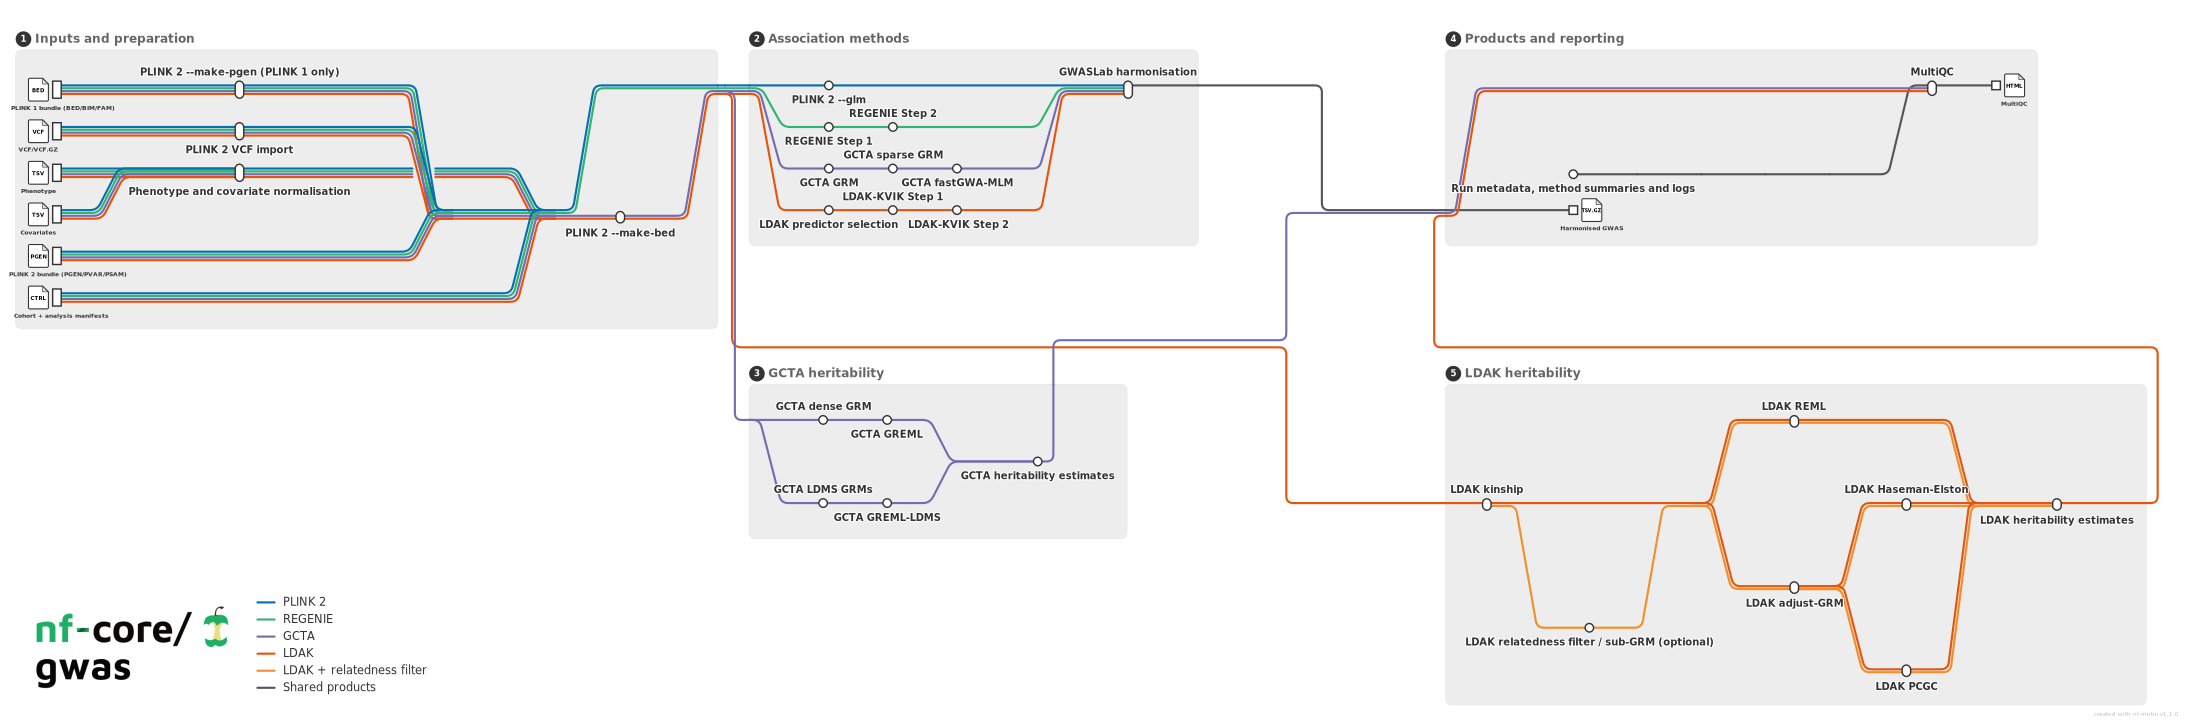
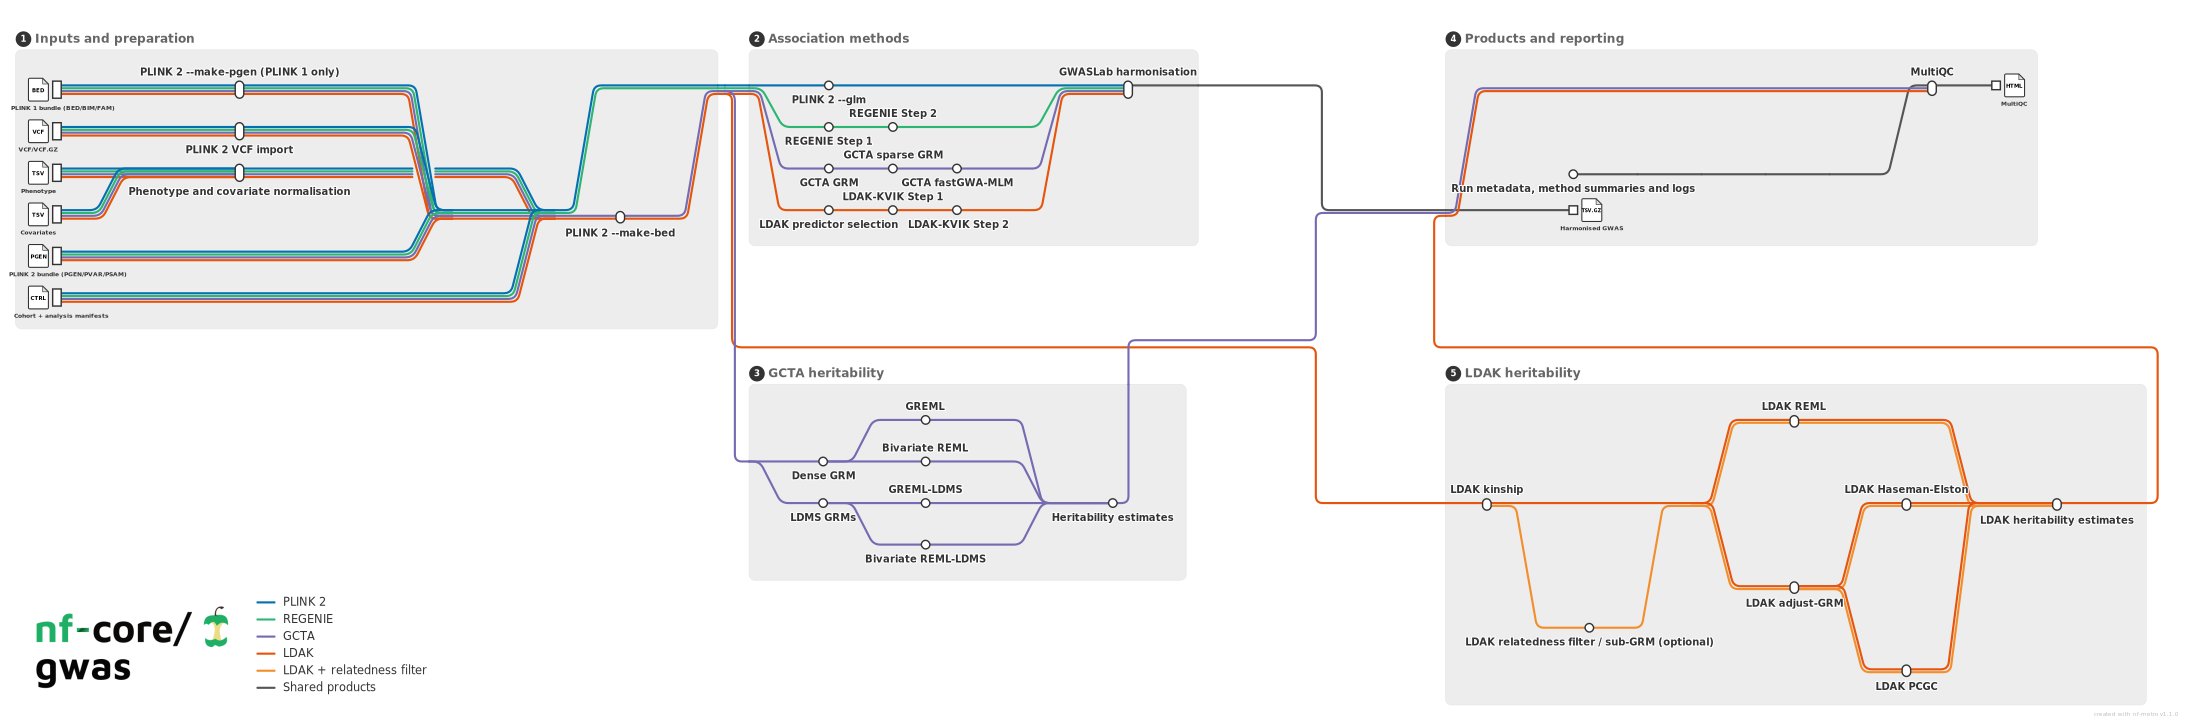
docs: describe bivariate LDMS analysis

Changed region(s): [[0.34, 0.5485, 0.5255, 0.7922], [0.5873, 0.4571, 0.6182, 0.4875], [0.4945, 0.4571, 0.5255, 0.4875]]

diff --git a/docs/usage.md b/docs/usage.md
@@ -66,7 +66,7 @@ At least one unary method selector must be populated unless the analysis is refe
 
 ### Relationship manifest fields
 
-The optional relationship manifest has exactly eight columns. The first release implements only the primary dense `gcta_bivariate_reml` route; the summary-statistics endpoint columns are reserved for later methods and must remain blank for this route.
+The optional relationship manifest has exactly eight columns. The implemented individual-level pair routes are `gcta_bivariate_reml` and `gcta_bivariate_reml_ldms`; the summary-statistics endpoint columns remain reserved for later methods and must be blank for these routes.
 
 | Column                       | Required | Description                                                                                                                                          |
 | ---------------------------- | -------- | ---------------------------------------------------------------------------------------------------------------------------------------------------- |
@@ -75,7 +75,7 @@ The optional relationship manifest has exactly eight columns. The first release 
 | `right_analysis_id`          | GCTA     | Analysis ID for native trait 2.                                                                                                                       |
 | `left_summary_statistics_id` | No       | Reserved summary-statistics endpoint; leave blank in this release.                                                                                   |
 | `right_summary_statistics_id` | No       | Reserved summary-statistics endpoint; leave blank in this release.                                                                                   |
-| `relationship_methods`       | Yes      | Comma-delimited pairwise selector; currently `gcta_bivariate_reml`.                                                                                   |
+| `relationship_methods`       | Yes      | Comma-delimited pairwise selector: `gcta_bivariate_reml`, `gcta_bivariate_reml_ldms` or both.                                                          |
 | `pair_quant_covariates`      | No       | Relationship-owned headered quantitative covariates beginning with `FID` and `IID`.                                                                  |
 | `pair_cat_covariates`        | No       | Relationship-owned headered categorical covariates beginning with `FID` and `IID`.                                                                   |
 
@@ -85,6 +85,7 @@ The pair phenotype is a deterministic full union of the two normalized endpoint 
 
 ```text
 gcta_bivariate_reml--<relationship_id>
+gcta_bivariate_reml_ldms--<relationship_id>
 ```
 
 ### Runnable examples
@@ -112,7 +113,7 @@ nextflow run nf-core/gwas \
     --outdir results
 ```
 
-The [relationship manifest example](../assets/examples/relational/relationship_manifest.csv) binds the heterogeneous quantitative and binary analyses. For the deliberately small fixture, use the [namespaced method-options example](../assets/examples/relational/method_options_heterogeneous_bivariate.json), which retains the unary settings, raises GCTA's native REML iteration allowance and deliberately drops the residual-covariance component for this compact test request. These are explicit example-specific native choices, not defaults of the pair route:
+The [relationship manifest example](../assets/examples/relational/relationship_manifest.csv) binds the heterogeneous quantitative and binary analyses and selects both GCTA pair estimators. For the deliberately small fixture, use the [namespaced method-options example](../assets/examples/relational/method_options_heterogeneous_bivariate.json), which retains the unary settings, uses one populated LDMS stratum, raises GCTA's native REML iteration allowance and deliberately drops the residual-covariance component. These are explicit example-specific choices, not pair-route defaults:
 
 ```bash
 nextflow run nf-core/gwas \
@@ -129,13 +130,19 @@ nextflow run nf-core/gwas \
 
 `--method_options` is optional. The established form keeps its JSON root keyed by `analysis_id`; each value may contain `gcta`, `ldak` and/or `regenie`. It remains supported unchanged. A namespaced document places those same entries under `analyses` and pair-specific settings under `pair_requests`. `unary_requests` is reserved for later summary-statistics requests and must remain empty in this release. Unlisted analyses and pair requests receive their defaults. Unknown identifiers, families or options, invalid values, missing resources, and options whose consuming method is not selected are rejected before task submission.
 
-The first pair route exposes one advanced option, `native_args`, as an array of individual non-file GCTA tokens on the deterministic request ID:
+Both GCTA pair routes expose `native_args` as an array of individual non-file GCTA tokens on the deterministic request ID. A relationship's deterministic LDMS request additionally owns its matrix construction settings; it never inherits them from either endpoint's unary analysis:
 
 ```json
 {
   "analyses": {},
   "pair_requests": {
     "gcta_bivariate_reml--height_disease": {
+      "native_args": ["--reml-maxit", "500"]
+    },
+    "gcta_bivariate_reml_ldms--height_disease": {
+      "ld_score_region_kb": 50,
+      "ld_bins": 1,
+      "ldms_maf_edges": [0, 0.5],
       "native_args": ["--reml-maxit", "500"]
     }
   }
@@ -153,6 +160,8 @@ The wrapper rejects whitespace or shell syntax, path separators, environment ass
 | `ld_score_region_kb` | Positive integer; `200`               | `gcta_greml_ldms` only; LD-score window in kilobases.                                                   |
 | `ld_bins`            | Positive integer; `4`                 | `gcta_greml_ldms` only; number of LD-score strata.                                                      |
 | `ldms_maf_edges`     | Number array; `[0,0.01,0.05,0.2,0.5]` | `gcta_greml_ldms` only; strictly increasing, at least two values, beginning at `0` and ending at `0.5`. |
+
+The same three LDMS setting names are accepted under a `gcta_bivariate_reml_ldms--<relationship_id>` pair request. Their defaults are `200`, `4` and `[0,0.01,0.05,0.2,0.5]`. The resolved values become part of the matrix reuse key, so a unary and pair request reuse one MGRM family only when cohort, genotype input and all three settings agree exactly.
 
 | LDAK option          | Type and default                | Consumer and constraints                                                                                                      |
 | -------------------- | ------------------------------- | ----------------------------------------------------------------------------------------------------------------------------- |

diff --git a/docs/output.md b/docs/output.md
@@ -23,13 +23,13 @@ Use the following provenance chain for any result:
 3. Map `<method>` to its producing tool using the table below.
 4. Read the tool version from `pipeline_info/nf_core_gwas_software_mqc_versions.yml`. The pipeline version and complete run parameters are recorded by the `pipeline_info/` reports and `params_<timestamp>.json`.
 
-Pairwise outputs instead use the deterministic request ID `<method>--<relationship_id>`. Find `relationship_id` in `--relationship_manifest`, follow its ordered left and right analysis IDs into `--analysis_manifest`, and use `requests/<method>/<request_id>/provenance.json` for the exact endpoint orientation, dense-matrix reuse key and native basename, effective prevalence, native arguments, all parsed native components, warnings and completion classification.
+Pairwise outputs instead use the deterministic request ID `<method>--<relationship_id>`. Find `relationship_id` in `--relationship_manifest`, follow its ordered left and right analysis IDs into `--analysis_manifest`, and use `requests/<method>/<request_id>/provenance.json` for the exact endpoint orientation, dense or LDMS matrix reuse key and native basename, effective prevalence, native arguments, all parsed native components, warnings and completion classification.
 
 | Method token                                     | Producing tool |
 | ------------------------------------------------ | -------------- |
 | `plink2`                                         | PLINK 2        |
 | `regenie`                                        | REGENIE        |
-| `gcta_fastgwa`, `gcta_greml`, `gcta_greml_ldms`, `gcta_bivariate_reml` | GCTA           |
+| `gcta_fastgwa`, `gcta_greml`, `gcta_greml_ldms`, `gcta_bivariate_reml`, `gcta_bivariate_reml_ldms` | GCTA           |
 | `ldak_kvik`, `ldak_reml`, `ldak_he`, `ldak_pcgc` | LDAK 6         |
 
 Together, the result prefix, retained cohort and analysis manifests, optional method-options document, and `pipeline_info/` artifacts identify the analysis, cohort, trait, genome build, method, scientific settings, pipeline version and producing tool version. Preserve them with an archived result.
@@ -183,7 +183,7 @@ The LDAK kinship model defaults to `human_default` with `power: -0.25`. Set `mod
 <details markdown="1">
 <summary>Output files</summary>
 
-The first relationship route uses one explicit all-variant dense GCTA matrix for the pair's cohort. It does not inherit either endpoint analysis's unary GCTA matrix settings. The native GCTA result and log remain request-addressed, while three lightweight TSV views expose each estimand family without selecting or ranking a result.
+The dense route uses one explicit all-variant GCTA matrix. The relationship's deterministic LDMS request owns one LD-by-MAF-stratified MGRM family. Neither route inherits matrix settings from an endpoint's unary analysis, and scientifically identical unary and pair LDMS settings reuse one matrix family. Native results remain request-addressed, while three lightweight TSV views expose each native estimand family without selecting, aggregating or ranking a result.
 
 - `requests/gcta_bivariate_reml/<request_id>/`
   - `native.hsq`: Complete native GCTA bivariate REML variance-component result.
@@ -193,6 +193,10 @@ The first relationship route uses one explicit all-variant dense GCTA matrix for
 - `heritability/gcta_bivariate_reml/<request_id>/heritability.tsv`: Left and right `V(G)/Vp` estimates on every scale the native result emitted.
 - `genetic_covariance/gcta_bivariate_reml/<request_id>/genetic_covariance.tsv`: Native observed-scale `C(G)_tr12` estimate and standard error.
 - `genetic_correlation/gcta_bivariate_reml/<request_id>/genetic_correlation.tsv`: Native ordered `rG` estimate and standard error.
+- `requests/gcta_bivariate_reml_ldms/<request_id>/`: The same native, diagnostics and provenance artifact set for REML-LDMS.
+- `heritability/gcta_bivariate_reml_ldms/<request_id>/heritability.tsv`: Ordered trait-specific `V(Gk)/Vp` rows for every native LDMS component `Gk` and scale emitted by GCTA.
+- `genetic_covariance/gcta_bivariate_reml_ldms/<request_id>/genetic_covariance.tsv`: Native observed-scale `C(Gk)_tr12` estimate and standard error for every LDMS component.
+- `genetic_correlation/gcta_bivariate_reml_ldms/<request_id>/genetic_correlation.tsv`: Native ordered `rGk` estimate and standard error for every LDMS component.
 
 </details>
 

diff --git a/README.md b/README.md
@@ -44,7 +44,7 @@ Genotype quality control is not performed by the pipeline. Input genotypes must 
    - LDAK REML
    - LDAK Haseman-Elston regression
    - LDAK PCGC
-7. Run declared same-cohort pairs with dense GCTA bivariate REML, retaining native output plus normalized heritability, genetic-covariance, genetic-correlation, diagnostics and request provenance.
+7. Run declared same-cohort pairs with dense or LDMS GCTA bivariate REML, retaining native output plus normalized heritability, genetic-covariance, genetic-correlation, diagnostics and request provenance.
 8. Collect run and software provenance with MultiQC and Nextflow reports.
 
 ## Usage
@@ -68,7 +68,7 @@ height,my_cohort,height,quantitative,/data/phenotypes.tsv,height,,,,,plink2,,
 
 Runnable minimal and heterogeneous examples are available under [`assets/examples/relational/`](assets/examples/relational/).
 
-To request pairwise analysis, add the optional eight-column relationship manifest. This first route accepts two distinct analysis IDs from the same cohort and the method token `gcta_bivariate_reml`; no pair is inferred.
+To request pairwise analysis, add the optional eight-column relationship manifest. GCTA pairs accept two distinct analysis IDs from the same cohort and select `gcta_bivariate_reml`, `gcta_bivariate_reml_ldms` or both; no pair is inferred.
 
 Then run:
 
@@ -89,7 +89,7 @@ For more details and further functionality, please refer to the [usage documenta
 
 ## Pipeline output
 
-Native association results are published under `association/<method>/<analysis_id>/`, comparable GWASLab tables under `summary_statistics/<analysis_id>/`, and individual-level heritability estimates under `heritability/individual/<method>/<analysis_id>/`. A declared GCTA pair publishes native and request provenance under `requests/gcta_bivariate_reml/<request_id>/` plus normalized estimand views under `heritability/`, `genetic_covariance/` and `genetic_correlation/`. Intermediates such as prepared genotypes, normalised phenotypes, relatedness matrices and REGENIE predictions are unpublished unless their save controls are enabled.
+Native association results are published under `association/<method>/<analysis_id>/`, comparable GWASLab tables under `summary_statistics/<analysis_id>/`, and individual-level heritability estimates under `heritability/individual/<method>/<analysis_id>/`. A declared GCTA pair publishes native and request provenance under `requests/<method>/<request_id>/` plus normalized estimand views under `heritability/`, `genetic_covariance/` and `genetic_correlation/`. Intermediates such as prepared genotypes, normalised phenotypes, relatedness matrices and REGENIE predictions are unpublished unless their save controls are enabled.
 
 For exact filenames, provenance lookup and optional output, see the [output documentation](https://nf-co.re/gwas/output).
 
